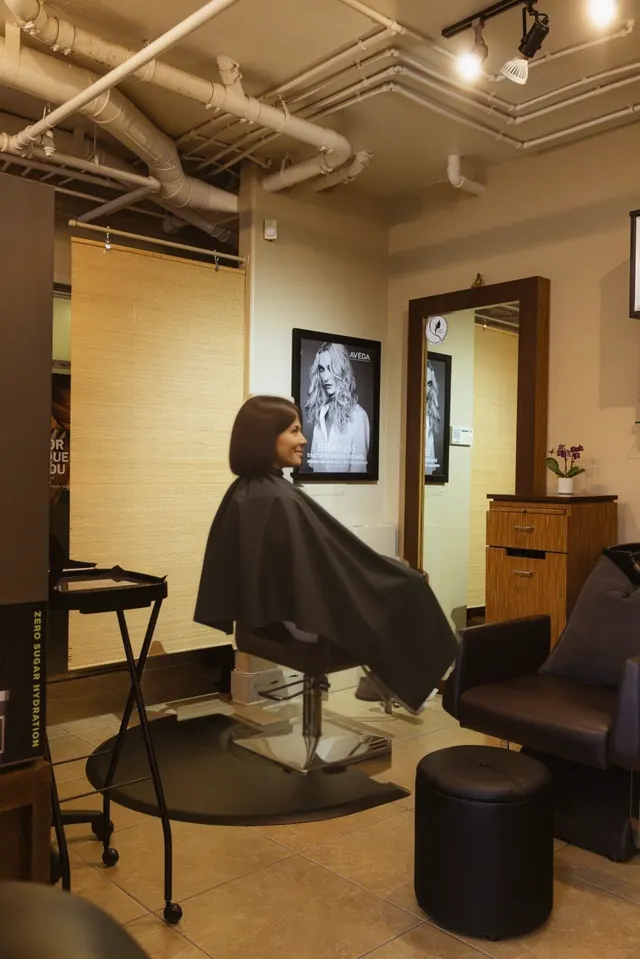
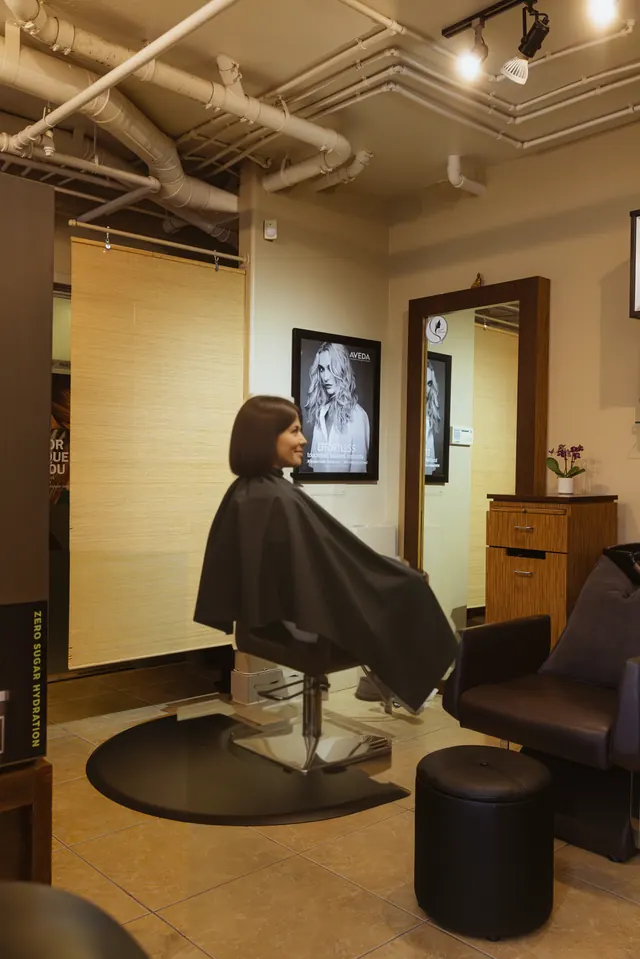
M/G/S: step 02 in J's 25 Oct look, the pause and Blonding redone in that room, Cut and Style and Signature Color cleaned (task a8c429a3)
J, 18 Nov: "we already had a cleanup version of this image and you used the one that's not cleaned up"; on Blonding:
"you used the wrong image and the guest has her shoes in teh chair and the camera angle is boring (also the lighting)";
18:16 Z: "Why don't we go with the option I prefered? My favorite one 25 oct".

- Step 02 (real-shampoo-basins ladder): J's 25 Oct look built on the photographer's original, every label real: the
  18 Nov master (lamp, bin and hair vacuum removed) with the real wire baskets back, the small items at the shelves' and
  baskets' ends removed by local FLUX.2 Klein 4B edits pasted over only their footprint. The 25 Oct edit itself (1280 px)
  enlarged showed invented bottle text and ghosts at 1:1, so its pixels are not used. Its 1280 file stays (2.2 shows it).
- The pause and Blonding: new guests in that room at photo 6's low angle, legs out of frame (nothing on a footstool),
  Qwen-Image-Edit 2511 aligned (SIFT) and pasted by each guest's own outline, the poster's words and the room kept the
  photographer's; light graded in code (cine_grade.py). Not upscaled: that waits for J's approval.
- Cut and Style: the same guest on the cleaned photo 11 (the cart gone). Signature Color: the bin and the vacuum hose
  removed (Klein). "Guest made with AI" stays on every guest picture (StoryLegal, 18 Nov).
- band_paste.py: FIT=1 fits a re-lit edit's colour to the photo before pasting. photo_sources.py: Signature Color's
[…]

Changed region(s): [[0.0938, 0.5746, 0.2812, 0.756], [0.0625, 0.756, 0.1875, 0.9374], [0.2188, 0.7862, 0.2812, 0.9677]]

diff --git a/option-2.2-mgs/g/index.html b/option-2.2-mgs/g/index.html
@@ -2119,7 +2119,7 @@ html[data-motion="calm"] .av__row::before, html[data-motion="calm"] .av__row:las
   <section class="s mani" id="pause" data-tone="dark" data-sound="bed" aria-label="The pause">
     <div class="mani__ring" aria-hidden="true"><svg viewBox="0 0 100 100"><circle cx="50" cy="50" r="49.5" pathLength="1"/><circle cx="50" cy="50" r="43" pathLength="1"/></svg></div>
     <div class="s__leave mani__in">
-      <figure class="br"><div class="br__ph"><img fetchpriority="low" src="img/om-pause-guest.webp" srcset="img/hd/om-pause-guest-640.webp 640w, img/hd/om-pause-guest-960.webp 960w, img/hd/om-pause-guest-1280.webp 1280w, img/hd/om-pause-guest-1920.webp 1920w, img/hd/om-pause-guest-2560.webp 2560w, img/hd/om-pause-guest-2906.webp 2906w" sizes="(max-width: 700px) 112vw, (max-width: 2000px) 63vw, 45vw" alt="A generated guest resting at a shampoo basin at Salon OM, eyes closed, a towel round her shoulders, seen through a doorway" decoding="async"></div><p class="ai-mark">Guest made with AI</p></figure><p class="mani__label label a-left" style="--d:.1s">The pause</p>
+      <figure class="br"><div class="br__ph"><img fetchpriority="low" src="img/om-pause-guest.webp" srcset="img/hd/om-pause-guest-640.webp 640w, img/hd/om-pause-guest-960.webp 960w, img/hd/om-pause-guest-1280.webp 1280w, img/hd/om-pause-guest-1920.webp 1920w, img/hd/om-pause-guest-2560.webp 2560w, img/hd/om-pause-guest-2906.webp 2906w" sizes="(max-width: 700px) 112vw, (max-width: 2000px) 63vw, 45vw" alt="A generated guest resting at a shampoo basin at Salon OM, eyes closed, a towel round her shoulders, below the Aveda poster" decoding="async"></div><p class="ai-mark">Guest made with AI</p></figure><p class="mani__label label a-left" style="--d:.1s">The pause</p>
       <p class="mani__text" data-write="letters" data-accents="moment.">Take a breath. When did you last give yourself time to be cared for?</p>
       <p class="lead a-up" style="--d:4.4s;margin-top:clamp(20px,3.5vh,40px);color:var(--ink-soft)">You deserve this moment.</p>
     </div>
@@ -2237,7 +2237,7 @@ html[data-motion="calm"] .av__row::before, html[data-motion="calm"] .av__row:las
           <div class="mn__name"><h3>Signature Color</h3><p class="mn__trip">Rich. Dimensional. You.</p></div>
           <ul class="mn__prices"><li><span>Root Refresh 110</span><b></b></li><li><span>Full Color 135</span><b></b></li><li><span>Signature Gloss 125</span><b></b></li></ul>
         </li><li class="om__row mn__row a-up" style="--d:0.53s" data-i="1" tabindex="0" aria-expanded="false">
-          <figure class="mn__rph" aria-hidden="true"><img fetchpriority="low" src="img/om-menu-blonding.webp" srcset="img/hd/om-menu-blonding-640.webp 640w, img/hd/om-menu-blonding-960.webp 960w, img/hd/om-menu-blonding-1171.webp 1171w" sizes="(max-width: 700px) 93vw, (max-width: 2000px) 38vw, 18vw" alt="" decoding="async" loading="lazy" style="--pos:45% 58%"><p class="ai-mark">Guest made with AI</p></figure><span class="mn__n">02</span>
+          <figure class="mn__rph" aria-hidden="true"><img fetchpriority="low" src="img/om-menu-blonding.webp" srcset="img/hd/om-menu-blonding-640.webp 640w, img/hd/om-menu-blonding-960.webp 960w, img/hd/om-menu-blonding-1171.webp 1171w" sizes="(max-width: 700px) 93vw, (max-width: 2000px) 38vw, 18vw" alt="" decoding="async" loading="lazy" style="--pos:52% 46%"><p class="ai-mark">Guest made with AI</p></figure><span class="mn__n">02</span>
           <div class="mn__name"><h3>Blonding</h3><p class="mn__trip">Bright. Seamless. Effortless.</p></div>
           <ul class="mn__prices"><li><span>Partial 175</span><b></b></li><li><span>Full 250</span><b></b></li><li><span>Signature Balayage 280+</span><b></b></li></ul>
         </li><li class="om__row mn__row a-up" style="--d:0.61s" data-i="2" tabindex="0" aria-expanded="false">
@@ -2258,7 +2258,7 @@ html[data-motion="calm"] .av__row::before, html[data-motion="calm"] .av__row:las
           <ul class="mn__prices"><li><span>Brow Wax 30</span><b></b></li></ul>
         </li></ol>
       <div class="mn__after"><p class="mn__note a-up" style="--d:.95s">A “+” means the service starts at that price. Extension hair is quoted separately during your consultation.</p><blockquote class="mn__beneath a-up" style="--d:1s">“She truly makes your time with her your own.”<cite>G.A., guest of Maggie</cite></blockquote><p class="cy__reward a-up" style="--d:1.10s"><span class="draft">Choose yours, knowing the price first. Salon OM welcomes guests by appointment, Monday to Friday.</span></p><div class="om__btn a-up" style="--d:1.1s"><a class="btn" href="#begin">Book your visit <span class="arr" aria-hidden="true">→</span></a></div></div>
-      <div class="om__ph mn__ph" aria-hidden="true"><img fetchpriority="low" class="mn__img is-on is-ai" src="img/om-menu-signature-color.webp" srcset="img/hd/om-menu-signature-color-640.webp 640w, img/hd/om-menu-signature-color-960.webp 960w, img/hd/om-menu-signature-color-1171.webp 1171w" sizes="(max-width: 700px) 93vw, (max-width: 2000px) 38vw, 19vw" alt="A generated guest with rich, dimensional brunette colour in the styling chair by the window at Salon OM" decoding="async" loading="lazy" data-i="0" style="--pos:62% 45%"><img fetchpriority="low" class="mn__img is-ai" src="img/om-menu-blonding.webp" srcset="img/hd/om-menu-blonding-640.webp 640w, img/hd/om-menu-blonding-960.webp 960w, img/hd/om-menu-blonding-1171.webp 1171w" sizes="(max-width: 700px) 93vw, (max-width: 2000px) 38vw, 18vw" alt="A generated guest with bright, seamless blonde hair reclining at a shampoo basin, in a photo of Salon OM" decoding="async" loading="lazy" data-i="1" style="--pos:45% 58%"><img fetchpriority="low" class="mn__img is-ai" src="img/om-menu-color-correction.webp" srcset="img/hd/om-menu-color-correction-640.webp 640w, img/hd/om-menu-color-correction-960.webp 960w, img/hd/om-menu-color-correction-1171.webp 1171w" sizes="(max-width: 700px) 93vw, (max-width: 2000px) 38vw, 19vw" alt="A generated guest with even, glossy warm brown hair in the doorway beside the Aveda canvas at Salon OM" decoding="async" loading="lazy" data-i="2" style="--pos:22% 42%"><img fetchpriority="low" class="mn__img is-ai" src="img/om-menu-cut-and-style.webp" srcset="img/hd/om-menu-cut-and-style-640.webp 640w, img/hd/om-menu-cut-and-style-854.webp 854w" sizes="(max-width: 700px) 93vw, (max-width: 2000px) 38vw, 19vw" alt="A generated guest with a sleek, freshly cut bob in a styling chair, in a photo of Salon OM" decoding="async" loading="lazy" data-i="3" style="--pos:44% 50%"><img fetchpriority="low" class="mn__img is-ai" src="img/om-menu-extensions.webp" srcset="img/hd/om-menu-extensions-640.webp 640w, img/hd/om-menu-extensions-960.webp 960w, img/hd/om-menu-extensions-1171.webp 1171w" sizes="(max-width: 700px) 93vw, (max-width: 2000px) 38vw, 19vw" alt="A generated guest with long, full, wavy hair on the bench by the fireplace, in a photo of Salon OM" decoding="async" loading="lazy" data-i="4" style="--pos:30% 52%"><img fetchpriority="low" class="mn__img is-ai" src="img/om-menu-finishing-touches.webp" srcset="img/hd/om-menu-finishing-touches-640.webp 640w, img/hd/om-menu-finishing-touches-960.webp 960w, img/hd/om-menu-finishing-touches-1280.webp 1280w, img/hd/om-menu-finishing-touches-1920.webp 1920w, img/hd/om-menu-finishing-touches-2631.webp 2631w" sizes="(max-width: 700px) 93vw, (max-width: 2000px) 85vw, 41vw" alt="A generated guest with softly shaped brows holding a glo tube at the skincare display at Salon OM" decoding="async" loading="lazy" data-i="5" style="--pos:33% 32%"><p class="ai-mark">Guest made with AI</p></div>
+      <div class="om__ph mn__ph" aria-hidden="true"><img fetchpriority="low" class="mn__img is-on is-ai" src="img/om-menu-signature-color.webp" srcset="img/hd/om-menu-signature-color-640.webp 640w, img/hd/om-menu-signature-color-960.webp 960w, img/hd/om-menu-signature-color-1171.webp 1171w" sizes="(max-width: 700px) 93vw, (max-width: 2000px) 38vw, 19vw" alt="A generated guest with rich, dimensional brunette colour in the styling chair by the window at Salon OM" decoding="async" loading="lazy" data-i="0" style="--pos:62% 45%"><img fetchpriority="low" class="mn__img is-ai" src="img/om-menu-blonding.webp" srcset="img/hd/om-menu-blonding-640.webp 640w, img/hd/om-menu-blonding-960.webp 960w, img/hd/om-menu-blonding-1171.webp 1171w" sizes="(max-width: 700px) 93vw, (max-width: 2000px) 38vw, 18vw" alt="A generated guest with bright, seamless blonde hair reclining at a shampoo basin, in a photo of Salon OM" decoding="async" loading="lazy" data-i="1" style="--pos:52% 46%"><img fetchpriority="low" class="mn__img is-ai" src="img/om-menu-color-correction.webp" srcset="img/hd/om-menu-color-correction-640.webp 640w, img/hd/om-menu-color-correction-960.webp 960w, img/hd/om-menu-color-correction-1171.webp 1171w" sizes="(max-width: 700px) 93vw, (max-width: 2000px) 38vw, 19vw" alt="A generated guest with even, glossy warm brown hair in the doorway beside the Aveda canvas at Salon OM" decoding="async" loading="lazy" data-i="2" style="--pos:22% 42%"><img fetchpriority="low" class="mn__img is-ai" src="img/om-menu-cut-and-style.webp" srcset="img/hd/om-menu-cut-and-style-640.webp 640w, img/hd/om-menu-cut-and-style-854.webp 854w" sizes="(max-width: 700px) 93vw, (max-width: 2000px) 38vw, 19vw" alt="A generated guest with a sleek, freshly cut bob in a styling chair, in a photo of Salon OM" decoding="async" loading="lazy" data-i="3" style="--pos:44% 50%"><img fetchpriority="low" class="mn__img is-ai" src="img/om-menu-extensions.webp" srcset="img/hd/om-menu-extensions-640.webp 640w, img/hd/om-menu-extensions-960.webp 960w, img/hd/om-menu-extensions-1171.webp 1171w" sizes="(max-width: 700px) 93vw, (max-width: 2000px) 38vw, 19vw" alt="A generated guest with long, full, wavy hair on the bench by the fireplace, in a photo of Salon OM" decoding="async" loading="lazy" data-i="4" style="--pos:30% 52%"><img fetchpriority="low" class="mn__img is-ai" src="img/om-menu-finishing-touches.webp" srcset="img/hd/om-menu-finishing-touches-640.webp 640w, img/hd/om-menu-finishing-touches-960.webp 960w, img/hd/om-menu-finishing-touches-1280.webp 1280w, img/hd/om-menu-finishing-touches-1920.webp 1920w, img/hd/om-menu-finishing-touches-2631.webp 2631w" sizes="(max-width: 700px) 93vw, (max-width: 2000px) 85vw, 41vw" alt="A generated guest with softly shaped brows holding a glo tube at the skincare display at Salon OM" decoding="async" loading="lazy" data-i="5" style="--pos:33% 32%"><p class="ai-mark">Guest made with AI</p></div>
     </div>
     <div class="s__shade"></div>
   </section>
@@ -2574,7 +2574,7 @@ html[data-motion="calm"] .av__row::before, html[data-motion="calm"] .av__row:las
     </footer>
   </section>
 </main>
-<script>window.OM_BUILD="718a714b5e53";</script>
+<script>window.OM_BUILD="be086d590ad7";</script>
 <script>
 /* a new build drops tweak drafts saved in this browser against an older one: a draft keys images and text by slide
    position, so an old draft would show the old pictures and words over the new build (J, 19 Oct: "the site getting updated") */

diff --git a/option-2.2-mgs/m/index.html b/option-2.2-mgs/m/index.html
@@ -2119,7 +2119,7 @@ html[data-motion="calm"] .av__row::before, html[data-motion="calm"] .av__row:las
   <section class="s mani" id="pause" data-tone="light" data-sound="bed" aria-label="The pause">
     <div class="mani__ring" aria-hidden="true"><svg viewBox="0 0 100 100"><circle cx="50" cy="50" r="49.5" pathLength="1"/><circle cx="50" cy="50" r="43" pathLength="1"/></svg></div>
     <div class="s__leave mani__in">
-      <figure class="br"><div class="br__ph"><img fetchpriority="low" src="img/om-pause-guest.webp" srcset="img/hd/om-pause-guest-640.webp 640w, img/hd/om-pause-guest-960.webp 960w, img/hd/om-pause-guest-1280.webp 1280w, img/hd/om-pause-guest-1920.webp 1920w, img/hd/om-pause-guest-2560.webp 2560w, img/hd/om-pause-guest-2906.webp 2906w" sizes="(max-width: 700px) 112vw, (max-width: 2000px) 63vw, 45vw" alt="A generated guest resting at a shampoo basin at Salon OM, eyes closed, a towel round her shoulders, seen through a doorway" decoding="async"></div><p class="ai-mark">Guest made with AI</p></figure><p class="mani__label label a-left" style="--d:.1s">The pause</p>
+      <figure class="br"><div class="br__ph"><img fetchpriority="low" src="img/om-pause-guest.webp" srcset="img/hd/om-pause-guest-640.webp 640w, img/hd/om-pause-guest-960.webp 960w, img/hd/om-pause-guest-1280.webp 1280w, img/hd/om-pause-guest-1920.webp 1920w, img/hd/om-pause-guest-2560.webp 2560w, img/hd/om-pause-guest-2906.webp 2906w" sizes="(max-width: 700px) 112vw, (max-width: 2000px) 63vw, 45vw" alt="A generated guest resting at a shampoo basin at Salon OM, eyes closed, a towel round her shoulders, below the Aveda poster" decoding="async"></div><p class="ai-mark">Guest made with AI</p></figure><p class="mani__label label a-left" style="--d:.1s">The pause</p>
       <p class="mani__text" data-write="letters" data-accents="moment.">Take a breath. When did you last give yourself time to be cared for?</p>
       <p class="lead a-up" style="--d:4.4s;margin-top:clamp(20px,3.5vh,40px);color:var(--ink-soft)">You deserve this moment.</p>
     </div>
@@ -2270,7 +2270,7 @@ html[data-motion="calm"] .av__row::before, html[data-motion="calm"] .av__row:las
           <div class="mn__name"><h3>Signature Color</h3><p class="mn__trip">Rich. Dimensional. You.</p></div>
           <ul class="mn__prices"><li><span>Root Refresh 110</span><b></b></li><li><span>Full Color 135</span><b></b></li><li><span>Signature Gloss 125</span><b></b></li></ul>
         </li><li class="om__row mn__row a-up" style="--d:0.53s" data-i="1" tabindex="0" aria-expanded="false">
-          <figure class="mn__rph" aria-hidden="true"><img fetchpriority="low" src="img/om-menu-blonding.webp" srcset="img/hd/om-menu-blonding-640.webp 640w, img/hd/om-menu-blonding-960.webp 960w, img/hd/om-menu-blonding-1171.webp 1171w" sizes="(max-width: 700px) 93vw, (max-width: 2000px) 38vw, 19vw" alt="" decoding="async" loading="lazy" style="--pos:45% 58%"><p class="ai-mark">Guest made with AI</p></figure><span class="mn__n">02</span>
+          <figure class="mn__rph" aria-hidden="true"><img fetchpriority="low" src="img/om-menu-blonding.webp" srcset="img/hd/om-menu-blonding-640.webp 640w, img/hd/om-menu-blonding-960.webp 960w, img/hd/om-menu-blonding-1171.webp 1171w" sizes="(max-width: 700px) 93vw, (max-width: 2000px) 38vw, 19vw" alt="" decoding="async" loading="lazy" style="--pos:52% 46%"><p class="ai-mark">Guest made with AI</p></figure><span class="mn__n">02</span>
           <div class="mn__name"><h3>Blonding</h3><p class="mn__trip">Bright. Seamless. Effortless.</p></div>
           <ul class="mn__prices"><li><span>Partial 175</span><b></b></li><li><span>Full 250</span><b></b></li><li><span>Signature Balayage 280+</span><b></b></li></ul>
         </li><li class="om__row mn__row a-up" style="--d:0.61s" data-i="2" tabindex="0" aria-expanded="false">
@@ -2291,7 +2291,7 @@ html[data-motion="calm"] .av__row::before, html[data-motion="calm"] .av__row:las
           <ul class="mn__prices"><li><span>Brow Wax 30</span><b></b></li></ul>
         </li></ol>
       <div class="mn__after"><p class="mn__note a-up" style="--d:.95s">A “+” means the service starts at that price. Extension hair is quoted separately during your consultation.</p><blockquote class="mn__beneath a-up" style="--d:1s">“She truly makes your time with her your own.”<cite>G.A., guest of Maggie</cite></blockquote><div class="om__btn a-up" style="--d:1.1s"><a class="btn btn--light" href="#begin">Book your visit <span class="arr" aria-hidden="true">→</span></a></div></div>
-      <div class="om__ph mn__ph" aria-hidden="true"><img fetchpriority="low" class="mn__img is-on is-ai" src="img/om-menu-signature-color.webp" srcset="img/hd/om-menu-signature-color-640.webp 640w, img/hd/om-menu-signature-color-960.webp 960w, img/hd/om-menu-signature-color-1171.webp 1171w" sizes="(max-width: 700px) 93vw, (max-width: 2000px) 36vw, 17vw" alt="A generated guest with rich, dimensional brunette colour in the styling chair by the window at Salon OM" decoding="async" loading="lazy" data-i="0" style="--pos:62% 45%"><img fetchpriority="low" class="mn__img is-ai" src="img/om-menu-blonding.webp" srcset="img/hd/om-menu-blonding-640.webp 640w, img/hd/om-menu-blonding-960.webp 960w, img/hd/om-menu-blonding-1171.webp 1171w" sizes="(max-width: 700px) 93vw, (max-width: 2000px) 38vw, 19vw" alt="A generated guest with bright, seamless blonde hair reclining at a shampoo basin, in a photo of Salon OM" decoding="async" loading="lazy" data-i="1" style="--pos:45% 58%"><img fetchpriority="low" class="mn__img is-ai" src="img/om-menu-color-correction.webp" srcset="img/hd/om-menu-color-correction-640.webp 640w, img/hd/om-menu-color-correction-960.webp 960w, img/hd/om-menu-color-correction-1171.webp 1171w" sizes="(max-width: 700px) 93vw, (max-width: 2000px) 38vw, 19vw" alt="A generated guest with even, glossy warm brown hair in the doorway beside the Aveda canvas at Salon OM" decoding="async" loading="lazy" data-i="2" style="--pos:22% 42%"><img fetchpriority="low" class="mn__img is-ai" src="img/om-menu-cut-and-style.webp" srcset="img/hd/om-menu-cut-and-style-640.webp 640w, img/hd/om-menu-cut-and-style-854.webp 854w" sizes="(max-width: 700px) 93vw, (max-width: 2000px) 38vw, 19vw" alt="A generated guest with a sleek, freshly cut bob in a styling chair, in a photo of Salon OM" decoding="async" loading="lazy" data-i="3" style="--pos:44% 50%"><img fetchpriority="low" class="mn__img is-ai" src="img/om-menu-extensions.webp" srcset="img/hd/om-menu-extensions-640.webp 640w, img/hd/om-menu-extensions-960.webp 960w, img/hd/om-menu-extensions-1171.webp 1171w" sizes="(max-width: 700px) 93vw, (max-width: 2000px) 38vw, 19vw" alt="A generated guest with long, full, wavy hair on the bench by the fireplace, in a photo of Salon OM" decoding="async" loading="lazy" data-i="4" style="--pos:30% 52%"><img fetchpriority="low" class="mn__img is-ai" src="img/om-menu-finishing-touches.webp" srcset="img/hd/om-menu-finishing-touches-640.webp 640w, img/hd/om-menu-finishing-touches-960.webp 960w, img/hd/om-menu-finishing-touches-1280.webp 1280w, img/hd/om-menu-finishing-touches-1920.webp 1920w, img/hd/om-menu-finishing-touches-2631.webp 2631w" sizes="(max-width: 700px) 93vw, (max-width: 2000px) 85vw, 41vw" alt="A generated guest with softly shaped brows holding a glo tube at the skincare display at Salon OM" decoding="async" loading="lazy" data-i="5" style="--pos:33% 32%"><p class="ai-mark">Guest made with AI</p></div>
+      <div class="om__ph mn__ph" aria-hidden="true"><img fetchpriority="low" class="mn__img is-on is-ai" src="img/om-menu-signature-color.webp" srcset="img/hd/om-menu-signature-color-640.webp 640w, img/hd/om-menu-signature-color-960.webp 960w, img/hd/om-menu-signature-color-1171.webp 1171w" sizes="(max-width: 700px) 93vw, (max-width: 2000px) 36vw, 17vw" alt="A generated guest with rich, dimensional brunette colour in the styling chair by the window at Salon OM" decoding="async" loading="lazy" data-i="0" style="--pos:62% 45%"><img fetchpriority="low" class="mn__img is-ai" src="img/om-menu-blonding.webp" srcset="img/hd/om-menu-blonding-640.webp 640w, img/hd/om-menu-blonding-960.webp 960w, img/hd/om-menu-blonding-1171.webp 1171w" sizes="(max-width: 700px) 93vw, (max-width: 2000px) 38vw, 19vw" alt="A generated guest with bright, seamless blonde hair reclining at a shampoo basin, in a photo of Salon OM" decoding="async" loading="lazy" data-i="1" style="--pos:52% 46%"><img fetchpriority="low" class="mn__img is-ai" src="img/om-menu-color-correction.webp" srcset="img/hd/om-menu-color-correction-640.webp 640w, img/hd/om-menu-color-correction-960.webp 960w, img/hd/om-menu-color-correction-1171.webp 1171w" sizes="(max-width: 700px) 93vw, (max-width: 2000px) 38vw, 19vw" alt="A generated guest with even, glossy warm brown hair in the doorway beside the Aveda canvas at Salon OM" decoding="async" loading="lazy" data-i="2" style="--pos:22% 42%"><img fetchpriority="low" class="mn__img is-ai" src="img/om-menu-cut-and-style.webp" srcset="img/hd/om-menu-cut-and-style-640.webp 640w, img/hd/om-menu-cut-and-style-854.webp 854w" sizes="(max-width: 700px) 93vw, (max-width: 2000px) 38vw, 19vw" alt="A generated guest with a sleek, freshly cut bob in a styling chair, in a photo of Salon OM" decoding="async" loading="lazy" data-i="3" style="--pos:44% 50%"><img fetchpriority="low" class="mn__img is-ai" src="img/om-menu-extensions.webp" srcset="img/hd/om-menu-extensions-640.webp 640w, img/hd/om-menu-extensions-960.webp 960w, img/hd/om-menu-extensions-1171.webp 1171w" sizes="(max-width: 700px) 93vw, (max-width: 2000px) 38vw, 19vw" alt="A generated guest with long, full, wavy hair on the bench by the fireplace, in a photo of Salon OM" decoding="async" loading="lazy" data-i="4" style="--pos:30% 52%"><img fetchpriority="low" class="mn__img is-ai" src="img/om-menu-finishing-touches.webp" srcset="img/hd/om-menu-finishing-touches-640.webp 640w, img/hd/om-menu-finishing-touches-960.webp 960w, img/hd/om-menu-finishing-touches-1280.webp 1280w, img/hd/om-menu-finishing-touches-1920.webp 1920w, img/hd/om-menu-finishing-touches-2631.webp 2631w" sizes="(max-width: 700px) 93vw, (max-width: 2000px) 85vw, 41vw" alt="A generated guest with softly shaped brows holding a glo tube at the skincare display at Salon OM" decoding="async" loading="lazy" data-i="5" style="--pos:33% 32%"><p class="ai-mark">Guest made with AI</p></div>
     </div>
     <div class="s__shade"></div>
   </section>
@@ -2558,7 +2558,7 @@ html[data-motion="calm"] .av__row::before, html[data-motion="calm"] .av__row:las
     </footer>
   </section>
 </main>
-<script>window.OM_BUILD="d99c84b90508";</script>
+<script>window.OM_BUILD="43340080d7d5";</script>
 <script>
 /* a new build drops tweak drafts saved in this browser against an older one: a draft keys images and text by slide
    position, so an old draft would show the old pictures and words over the new build (J, 19 Oct: "the site getting updated") */

diff --git a/option-2.2-mgs/s/index.html b/option-2.2-mgs/s/index.html
@@ -2168,7 +2168,7 @@ html[data-motion="calm"] .av__row::before, html[data-motion="calm"] .av__row:las
           <div class="mn__name"><h3>Signature Color</h3><p class="mn__trip">Rich. Dimensional. You.</p></div>
           <ul class="mn__prices"><li><span>Root Refresh 110</span><b></b></li><li><span>Full Color 135</span><b></b></li><li><span>Signature Gloss 125</span><b></b></li></ul>
         </li><li class="om__row mn__row a-up" style="--d:0.53s" data-i="1" tabindex="0" aria-expanded="false">
-          <figure class="mn__rph" aria-hidden="true"><img fetchpriority="low" src="img/om-menu-blonding.webp" srcset="img/hd/om-menu-blonding-640.webp 640w, img/hd/om-menu-blonding-960.webp 960w, img/hd/om-menu-blonding-1171.webp 1171w" sizes="(max-width: 700px) 93vw, (max-width: 2000px) 36vw, 19vw" alt="" decoding="async" loading="lazy" style="--pos:45% 58%"><p class="ai-mark">Guest made with AI</p></figure><span class="mn__n">02</span>
+          <figure class="mn__rph" aria-hidden="true"><img fetchpriority="low" src="img/om-menu-blonding.webp" srcset="img/hd/om-menu-blonding-640.webp 640w, img/hd/om-menu-blonding-960.webp 960w, img/hd/om-menu-blonding-1171.webp 1171w" sizes="(max-width: 700px) 93vw, (max-width: 2000px) 36vw, 19vw" alt="" decoding="async" loading="lazy" style="--pos:52% 46%"><p class="ai-mark">Guest made with AI</p></figure><span class="mn__n">02</span>
           <div class="mn__name"><h3>Blonding</h3><p class="mn__trip">Bright. Seamless. Effortless.</p></div>
           <ul class="mn__prices"><li><span>Partial 175</span><b></b></li><li><span>Full 250</span><b></b></li><li><span>Signature Balayage 280+</span><b></b></li></ul>
         </li><li class="om__row mn__row a-up" style="--d:0.61s" data-i="2" tabindex="0" aria-expanded="false">
@@ -2189,7 +2189,7 @@ html[data-motion="calm"] .av__row::before, html[data-motion="calm"] .av__row:las
           <ul class="mn__prices"><li><span>Brow Wax 30</span><b></b></li></ul>
         </li></ol>
       <div class="mn__after"><p class="mn__note a-up" style="--d:.95s">A “+” means the service starts at that price. Extension hair is quoted separately during your consultation.</p><blockquote class="mn__beneath a-up" style="--d:1s">“She truly makes your time with her your own.”<cite>G.A., guest of Maggie</cite></blockquote><div class="om__btn a-up" style="--d:1.1s"><a class="btn btn--light" href="#begin">Book your visit <span class="arr" aria-hidden="true">→</span></a></div></div>
-      <div class="om__ph mn__ph" aria-hidden="true"><img fetchpriority="low" class="mn__img is-on is-ai" src="img/om-menu-signature-color.webp" srcset="img/hd/om-menu-signature-color-640.webp 640w, img/hd/om-menu-signature-color-960.webp 960w, img/hd/om-menu-signature-color-1171.webp 1171w" sizes="(max-width: 700px) 93vw, (max-width: 2000px) 38vw, 18vw" alt="A generated guest with rich, dimensional brunette colour in the styling chair by the window at Salon OM" decoding="async" loading="lazy" data-i="0" style="--pos:62% 45%"><img fetchpriority="low" class="mn__img is-ai" src="img/om-menu-blonding.webp" srcset="img/hd/om-menu-blonding-640.webp 640w, img/hd/om-menu-blonding-960.webp 960w, img/hd/om-menu-blonding-1171.webp 1171w" sizes="(max-width: 700px) 93vw, (max-width: 2000px) 36vw, 19vw" alt="A generated guest with bright, seamless blonde hair reclining at a shampoo basin, in a photo of Salon OM" decoding="async" loading="lazy" data-i="1" style="--pos:45% 58%"><img fetchpriority="low" class="mn__img is-ai" src="img/om-menu-color-correction.webp" srcset="img/hd/om-menu-color-correction-640.webp 640w, img/hd/om-menu-color-correction-960.webp 960w, img/hd/om-menu-color-correction-1171.webp 1171w" sizes="(max-width: 700px) 93vw, (max-width: 2000px) 38vw, 19vw" alt="A generated guest with even, glossy warm brown hair in the doorway beside the Aveda canvas at Salon OM" decoding="async" loading="lazy" data-i="2" style="--pos:22% 42%"><img fetchpriority="low" class="mn__img is-ai" src="img/om-menu-cut-and-style.webp" srcset="img/hd/om-menu-cut-and-style-640.webp 640w, img/hd/om-menu-cut-and-style-854.webp 854w" sizes="(max-width: 700px) 93vw, (max-width: 2000px) 38vw, 19vw" alt="A generated guest with a sleek, freshly cut bob in a styling chair, in a photo of Salon OM" decoding="async" loading="lazy" data-i="3" style="--pos:44% 50%"><img fetchpriority="low" class="mn__img is-ai" src="img/om-menu-extensions.webp" srcset="img/hd/om-menu-extensions-640.webp 640w, img/hd/om-menu-extensions-960.webp 960w, img/hd/om-menu-extensions-1171.webp 1171w" sizes="(max-width: 700px) 93vw, (max-width: 2000px) 38vw, 19vw" alt="A generated guest with long, full, wavy hair on the bench by the fireplace, in a photo of Salon OM" decoding="async" loading="lazy" data-i="4" style="--pos:30% 52%"><img fetchpriority="low" class="mn__img is-ai" src="img/om-menu-finishing-touches.webp" srcset="img/hd/om-menu-finishing-touches-640.webp 640w, img/hd/om-menu-finishing-touches-960.webp 960w, img/hd/om-menu-finishing-touches-1280.webp 1280w, img/hd/om-menu-finishing-touches-1920.webp 1920w, img/hd/om-menu-finishing-touches-2631.webp 2631w" sizes="(max-width: 700px) 93vw, (max-width: 2000px) 85vw, 41vw" alt="A generated guest with softly shaped brows holding a glo tube at the skincare display at Salon OM" decoding="async" loading="lazy" data-i="5" style="--pos:33% 32%"><p class="ai-mark">Guest made with AI</p></div>
+      <div class="om__ph mn__ph" aria-hidden="true"><img fetchpriority="low" class="mn__img is-on is-ai" src="img/om-menu-signature-color.webp" srcset="img/hd/om-menu-signature-color-640.webp 640w, img/hd/om-menu-signature-color-960.webp 960w, img/hd/om-menu-signature-color-1171.webp 1171w" sizes="(max-width: 700px) 93vw, (max-width: 2000px) 38vw, 18vw" alt="A generated guest with rich, dimensional brunette colour in the styling chair by the window at Salon OM" decoding="async" loading="lazy" data-i="0" style="--pos:62% 45%"><img fetchpriority="low" class="mn__img is-ai" src="img/om-menu-blonding.webp" srcset="img/hd/om-menu-blonding-640.webp 640w, img/hd/om-menu-blonding-960.webp 960w, img/hd/om-menu-blonding-1171.webp 1171w" sizes="(max-width: 700px) 93vw, (max-width: 2000px) 36vw, 19vw" alt="A generated guest with bright, seamless blonde hair reclining at a shampoo basin, in a photo of Salon OM" decoding="async" loading="lazy" data-i="1" style="--pos:52% 46%"><img fetchpriority="low" class="mn__img is-ai" src="img/om-menu-color-correction.webp" srcset="img/hd/om-menu-color-correction-640.webp 640w, img/hd/om-menu-color-correction-960.webp 960w, img/hd/om-menu-color-correction-1171.webp 1171w" sizes="(max-width: 700px) 93vw, (max-width: 2000px) 38vw, 19vw" alt="A generated guest with even, glossy warm brown hair in the doorway beside the Aveda canvas at Salon OM" decoding="async" loading="lazy" data-i="2" style="--pos:22% 42%"><img fetchpriority="low" class="mn__img is-ai" src="img/om-menu-cut-and-style.webp" srcset="img/hd/om-menu-cut-and-style-640.webp 640w, img/hd/om-menu-cut-and-style-854.webp 854w" sizes="(max-width: 700px) 93vw, (max-width: 2000px) 38vw, 19vw" alt="A generated guest with a sleek, freshly cut bob in a styling chair, in a photo of Salon OM" decoding="async" loading="lazy" data-i="3" style="--pos:44% 50%"><img fetchpriority="low" class="mn__img is-ai" src="img/om-menu-extensions.webp" srcset="img/hd/om-menu-extensions-640.webp 640w, img/hd/om-menu-extensions-960.webp 960w, img/hd/om-menu-extensions-1171.webp 1171w" sizes="(max-width: 700px) 93vw, (max-width: 2000px) 38vw, 19vw" alt="A generated guest with long, full, wavy hair on the bench by the fireplace, in a photo of Salon OM" decoding="async" loading="lazy" data-i="4" style="--pos:30% 52%"><img fetchpriority="low" class="mn__img is-ai" src="img/om-menu-finishing-touches.webp" srcset="img/hd/om-menu-finishing-touches-640.webp 640w, img/hd/om-menu-finishing-touches-960.webp 960w, img/hd/om-menu-finishing-touches-1280.webp 1280w, img/hd/om-menu-finishing-touches-1920.webp 1920w, img/hd/om-menu-finishing-touches-2631.webp 2631w" sizes="(max-width: 700px) 93vw, (max-width: 2000px) 85vw, 41vw" alt="A generated guest with softly shaped brows holding a glo tube at the skincare display at Salon OM" decoding="async" loading="lazy" data-i="5" style="--pos:33% 32%"><p class="ai-mark">Guest made with AI</p></div>
     </div>
     <div class="s__shade"></div>
   </section>
@@ -2340,7 +2340,7 @@ html[data-motion="calm"] .av__row::before, html[data-motion="calm"] .av__row:las
     </footer>
   </section>
 </main>
-<script>window.OM_BUILD="b42801fa7abf";</script>
+<script>window.OM_BUILD="8ccf78991d77";</script>
 <script>
 /* a new build drops tweak drafts saved in this browser against an older one: a draft keys images and text by slide
    position, so an old draft would show the old pictures and words over the new build (J, 19 Oct: "the site getting updated") */

diff --git a/option-2.x-shared/source/mgs_parts.py b/option-2.x-shared/source/mgs_parts.py
@@ -79,9 +79,13 @@ SERVICE_PHOTO = [
   # footrest, her body turned with the chair and her head only a little more. Qwen-Image-Edit 2511 on the Mac Studio (SC5
   # seed 3) re-rendered the whole frame at the photo's own camera; every object checked against photo 4, none invented, not
   # pixel-exact (a paste left seams: Qwen moves the room a little). Round 4's view of photo 11 changed the real room.
-  # Blonding is her photo 12 with the guest reclined at the basin, neck at the bowl, only the guest's zone pasted back
+  # Blonding (task a8c429a3, J 18 Nov 17:26 Z: "you used the wrong image and the guest has her shoes in teh chair and the camera
+  # angle is boring (also the lighting)"): the cleaned basins wall (step 02's master, J's 25 Oct look), photo 6's low angle,
+  # the guest leaning back at the basin under the poster, her bright blonde hair down the chair back, her legs out of frame;
+  # Qwen-Image-Edit 2511 (BL2 seed 3) aligned and pasted by her own outline (the poster's words and the room stay the
+  # photographer's), light graded in code (cine_grade.py)
   ('om-menu-signature-color.webp', 'A generated guest with rich, dimensional brunette colour in the styling chair by the window at Salon OM', '62% 45%'),
-  ('om-menu-blonding.webp', 'A generated guest with bright, seamless blonde hair reclining at a shampoo basin, in a photo of Salon OM', '45% 58%'),
+  ('om-menu-blonding.webp', 'A generated guest with bright, seamless blonde hair reclining at a shampoo basin, in a photo of Salon OM', '52% 46%'),
   # Color Correction (round 5, task 2846db82): the salon's photo 15, the guest in the doorway beside the Aveda canvas, facing
   # the camera with body and head together, her hair an even, glossy warm brown from root to end; Qwen-Image-Edit 2511 (CC3
   # seed 8), whole frame, canvas, switches, counter and lights checked against photo 15 (the color bar sits behind her)
@@ -109,8 +113,9 @@ SERVICE_PHOTO = [
 # not a footer line, a hover or tap icon, or a mark only in the file; task 1c6ed2aa)
 AI_GUEST = 'Guest made with AI'
 AI_MADE = 'Made with AI'   # the meadow: a generated person not made from her photos (CEO MA, 18 Nov; StoryLegal asked for its words)
-# the pause (task 2b1d1187): her photo 17, the basin room seen through a doorway, with one generated guest at the basin below the poster
-PAUSE_ALT = 'A generated guest resting at a shampoo basin at Salon OM, eyes closed, a towel round her shoulders, seen through a doorway'
+# the pause (task a8c429a3): the cleaned basins wall (step 02's master, J's 25 Oct look) at photo 6's low angle, one generated guest
+# resting at the basin below the poster, legs out of frame (no feet on the footstool), light graded in code; was photo 17 raw
+PAUSE_ALT = 'A generated guest resting at a shampoo basin at Salon OM, eyes closed, a towel round her shoulders, below the Aveda poster'
 
 
 # THE FILMS SWITCH (build.FILMS_SHOWN; J 18 Nov, task 5479dd6c). With the films off, a film spot on M, G and S shows a still:

diff --git a/option-2.x-shared/source/photo_sources.py b/option-2.x-shared/source/photo_sources.py
@@ -48,7 +48,7 @@ SOURCE = {
     # the photographer's original with J's 25 Oct edit where the edit changed the room (was the 18 Nov real-bottles master)
     'real-shampoo-basins.webp': 'm:6-shampoo-basins-25oct-clean.jpg',
     'real-styling-stations.webp': 'm:11-styling-stations-clean.jpg',
-    'om-menu-signature-color.webp': 'm:om-menu-signature-color.png',
+    'om-menu-signature-color.webp': 'm:om-menu-signature-color-clean.png',   # the bin and the vacuum hose removed (task a8c429a3)
     'om-menu-blonding.webp': 'm:om-menu-blonding-25oct.png',
     'om-menu-color-correction.webp': 'm:om-menu-color-correction.png',
     'om-menu-cut-and-style.webp': 'm:om-menu-cut-and-style-clean.png',
@@ -103,7 +103,7 @@ CLEANED = {v for v in ORIGINALS.values() if v}
 # the meadow). A picture made on the raw original of a cleaned place and then cleaned itself names what was removed in
 # CLEANED_IN_PLACE, so the answer is written where the picture is declared
 BUILT_ON = {
-    'om-menu-signature-color.png': 'o:4-styling-chair-window-5B3A1068.jpg',
+    'om-menu-signature-color-clean.png': 'o:4-styling-chair-window-5B3A1068.jpg',
     'om-menu-blonding-25oct.png': 'm:6-shampoo-basins-25oct-clean.jpg',
     'om-menu-color-correction.png': 'o:15-aveda-plant-artwork-5B3A1081.jpg',
     'om-menu-cut-and-style-clean.png': 'm:11-styling-stations-clean.jpg',
@@ -115,7 +115,7 @@ BUILT_ON = {
     'film-air-curtains.png': None,
 }
 CLEANED_IN_PLACE = {
-    'om-menu-signature-color.png': 'the bin by the window and the hair vacuum hose removed, as on the clean copy of photo 4',
+    'om-menu-signature-color-clean.png': 'the bin by the window and the hair vacuum hose removed, as on the clean copy of photo 4',
 }
 
 # pictures the pages show that are not exported from a master here: what they were cut from

diff --git a/option-2.x-shared/source/band_paste.py b/option-2.x-shared/source/band_paste.py
@@ -29,6 +29,14 @@ if B.startswith('auto'):
     del ef, d, lab
 else:
     band = ndi.binary_dilation(np.asarray(Image.open(B).convert('L'))[y:y + h, x:x + w] > 127, iterations=8)
+# FIT=1 (task a8c429a3): a removal edit that re-lit its whole crop (a local model brightened every pixel) is first fitted, channel
+# by channel, to the photo outside the band, so the band does not show as a paler or darker trace of the removed object
+import os
+if os.environ.get('FIT'):
+    out_b = ~ndi.binary_dilation(band, iterations=20)
+    for c in range(3):
+        g1, b1 = np.polyfit(e[..., c][out_b], o[..., c][out_b], 1); e[..., c] = e[..., c] * g1 + b1
+    e = np.clip(e, 0, 1)
 ring = ndi.binary_dilation(band, iterations=40) & ~ndi.binary_dilation(band, iterations=10)
 W = ndi.gaussian_filter(ring.astype(float), 40) + 1e-9
 corr = np.stack([ndi.gaussian_filter((e[..., c] - o[..., c]) * ring, 40) / W for c in range(3)], 2)
